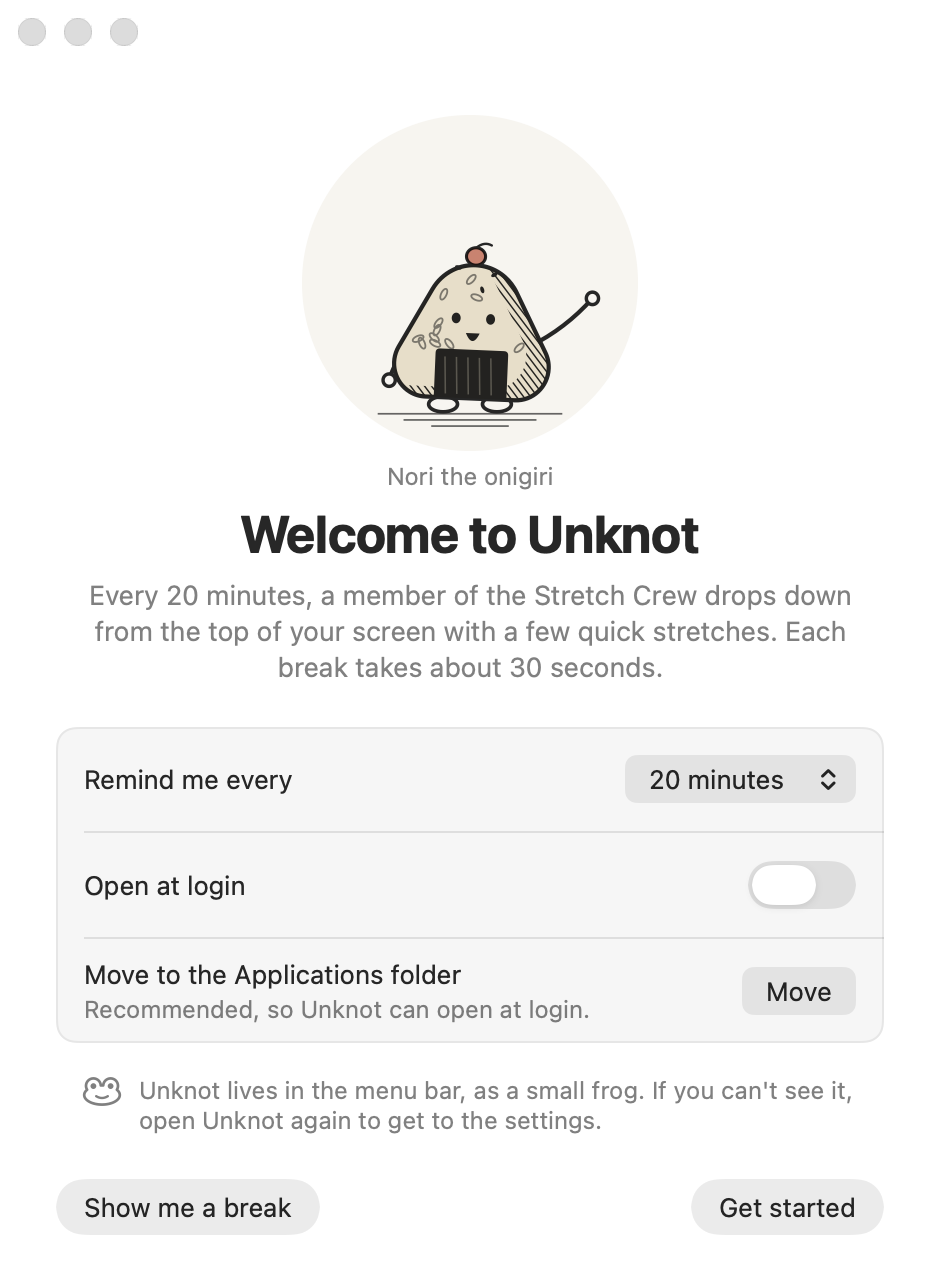
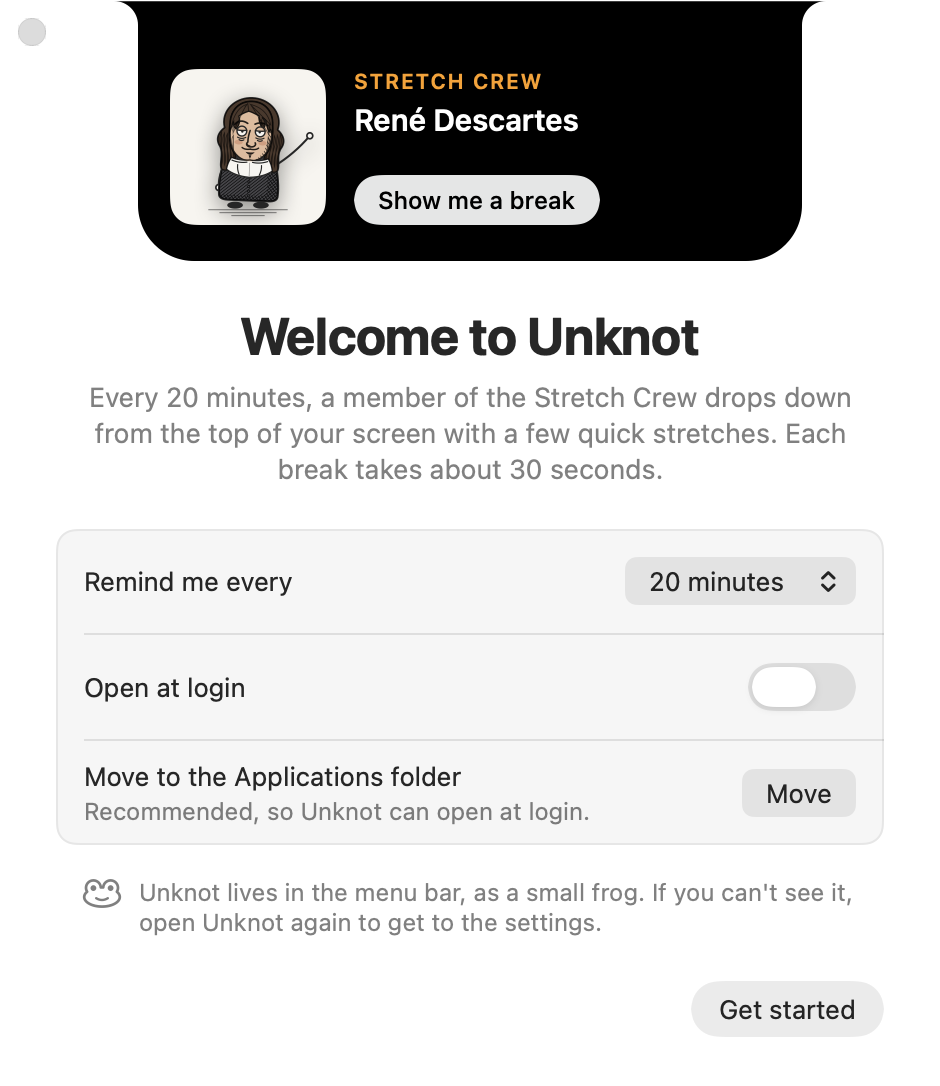
Unknot: a miniature island in the welcome window, Kaknästornet's panel (1.24.1)
The welcome window opens with a small black island hanging from its top
edge, like a break from the notch: a crew member waving on its tile and the
Show me a break button. The window lets its contents run under the title
bar and keeps only the close button; the README screenshot uses the same
window. Kaknästornet gets the white diamond-pressed aluminium panel from the
photographs, off the middle so it doesn't read as a mouth.

diff --git a/Unknot/Sources/WelcomeView.swift b/Unknot/Sources/WelcomeView.swift
@@ -14,21 +14,12 @@ struct WelcomeView: View {
 
     var body: some View {
         VStack(spacing: 0) {
-            BuddyView(move: .wave, buddy: buddy, epoch: Date())
-                .frame(width: 150, height: 150)
-                .background(Circle().fill(Pen.paper).frame(width: 168, height: 168))
-                .paperTone(scheme)
-                .padding(.top, 34)
-
-            Text(buddy.introduction)
-                .font(.callout)
-                .foregroundStyle(.secondary)
-                .padding(.top, 14)
+            island
 
             Text(L("Welcome to Unknot"))
                 .font(.system(size: 26, weight: .bold))
                 .tracking(-0.4)
-                .padding(.top, 6)
+                .padding(.top, 22)
 
             Text(L("Every %ld minutes, a member of the Stretch Crew drops down from the top of your screen with a few quick stretches. Each break takes about %ld seconds.", prefs.intervalMinutes, prefs.breakSeconds))
                 .font(.system(size: 13.5))
@@ -101,7 +92,6 @@ struct WelcomeView: View {
                 .padding(.top, 16)
 
             HStack {
-                Button(L("Show me a break"), action: onTryBreak)
                 Spacer()
                 Button(L("Get started"), action: onDone)
                     .keyboardShortcut(.defaultAction)
@@ -117,6 +107,41 @@ struct WelcomeView: View {
         .onReceive(NotificationCenter.default.publisher(for: NSApplication.didBecomeActiveNotification)) { _ in
             login.refresh()
         }
+    }
+
+    /// A break in miniature, hanging from the top of the window the way the real one hangs from the notch: a
+    /// member of the crew waving on its paper tile, and a button that shows a real break.
+    private var island: some View {
+        HStack(alignment: .top, spacing: 14) {
+            RoundedRectangle(cornerRadius: 12, style: .continuous)
+                .fill(Pen.paper)
+                .overlay(BuddyView(move: .wave, buddy: buddy, epoch: Date()).padding(3))
+                .colorMultiply(Color(hex: 0xF1ECE3))
+                .frame(width: 78, height: 78)
+                .shadow(color: .black.opacity(0.4), radius: 6, y: 3)
+            VStack(alignment: .leading, spacing: 3) {
+                Text(L("Stretch Crew").uppercased(with: Localizer.locale))
+                    .font(.system(size: 10.5, weight: .semibold))
+                    .tracking(0.8)
+                    .foregroundStyle(Island.accent)
+                Text(buddy.introduction)
+                    .font(.system(size: 15, weight: .semibold))
+                    .foregroundStyle(.white)
+                    .lineLimit(1)
+                    .minimumScaleFactor(0.8)
+                Spacer(minLength: 0)
+                Button(L("Show me a break"), action: onTryBreak)
+                    .buttonStyle(IslandCapsuleStyle(prominent: true))
+            }
+            .frame(maxWidth: .infinity, alignment: .leading)
+            .frame(height: 78)
+        }
+        .padding(.horizontal, 12 + 16)
+        .padding(.top, 34)
+        .padding(.bottom, 18)
+        .frame(width: 356)
+        .background(IslandShape(ear: 12, bottom: 28).fill(Color.black))
+        .environment(\.colorScheme, .dark)
     }
 
     private func row<Content: View>(@ViewBuilder _ content: () -> Content) -> some View {

diff --git a/Unknot/Sources/WindowManager.swift b/Unknot/Sources/WindowManager.swift
@@ -28,22 +28,33 @@ final class WindowManager: NSObject, NSWindowDelegate {
 
     func showWelcome() {
         if welcomeWindow == nil {
-            let view = WelcomeView(onTryBreak: { [weak self] in self?.onTestBreak?() },
-                                   onDone: { [weak self] in self?.welcomeWindow?.close() })
-            let host = NSHostingController(rootView: view.environment(\.locale, Localizer.locale))
-            let window = NSWindow(contentViewController: host)
-            window.styleMask = [.titled, .closable, .fullSizeContentView]
-            window.titlebarAppearsTransparent = true
-            window.titleVisibility = .hidden
-            window.isMovableByWindowBackground = true
-            window.isReleasedWhenClosed = false
-            window.title = L("Welcome to Unknot")
+            let window = Self.makeWelcomeWindow(onTryBreak: { [weak self] in self?.onTestBreak?() },
+                                                onDone: { [weak self] in self?.welcomeWindow?.close() })
             window.delegate = self
-            window.setContentSize(host.view.fittingSize)
             window.center()
             welcomeWindow = window
         }
         present(welcomeWindow!)
+    }
+
+    /// The first-launch window, also photographed for the README.
+    static func makeWelcomeWindow(onTryBreak: @escaping () -> Void, onDone: @escaping () -> Void) -> NSWindow {
+        let host = NSHostingController(rootView: WelcomeView(onTryBreak: onTryBreak, onDone: onDone)
+            .environment(\.locale, Localizer.locale))
+        // The island at the top hangs from the window's very edge, under the transparent title bar
+        host.safeAreaRegions = []
+        let window = NSWindow(contentViewController: host)
+        window.styleMask = [.titled, .closable, .fullSizeContentView]
+        window.titlebarAppearsTransparent = true
+        window.titleVisibility = .hidden
+        window.isMovableByWindowBackground = true
+        window.isReleasedWhenClosed = false
+        window.title = L("Welcome to Unknot")
+        // Only the close button: the others can't be used here, and the island needs the room
+        window.standardWindowButton(.miniaturizeButton)?.isHidden = true
+        window.standardWindowButton(.zoomButton)?.isHidden = true
+        window.setContentSize(host.view.fittingSize)
+        return window
     }
 
     func makeSettingsWindow(animatesResize: Bool = true) -> (NSWindow, SettingsTabViewController) {

diff --git a/Unknot/Sources/Crew.swift b/Unknot/Sources/Crew.swift
@@ -1072,10 +1072,8 @@ struct KaknasArt: CrewArt {
             }
             for (y, w) in [(44.0, 7.0), (38.0, 5.5)] { p.move(to: pt(100 - w, y)); p.addLine(to: pt(100 + w, y)) }
         }
-        // The shuttering marks in the concrete: a groove, a column of small windows and the white panel
+        // Two small windows under the face
         marks = makePath { p in
-            p.move(to: pt(100, 152)); p.addLine(to: pt(100, 162))
-            for y in stride(from: 155.0, through: 162.0, by: 7.0) { p.addRect(CGRect(x: 103, y: y - 1.5, width: 2.6, height: 3)) }
             p.addRect(CGRect(x: 94.5, y: 113.5, width: 3, height: 3)); p.addRect(CGRect(x: 102.5, y: 113.5, width: 3, height: 3))
         }
         wash = shaft
@@ -1115,7 +1113,28 @@ struct KaknasArt: CrewArt {
         pen.mouth(pt(100 + f.fx * 0.6, 107), f, width: 3.8, depth: 2.6)
     }
 
+    /// The white aluminium panel on the shaft below the platforms, pressed into diamonds, as on the
+    /// photographs. It sits off the middle, so under the face it never reads as a second mouth.
+    private static let panel = CGRect(x: 102, y: 151, width: 10, height: 8)
+    /// Each diamond in two halves, the left one catching the light, the right one in shade.
+    private static let diamonds: [(lit: Path, shade: Path)] = (0..<2).map { k in
+        let w = panel.width / 2, cx = panel.minX + w / 2 + CGFloat(k) * w, cy = panel.midY, hy = panel.height / 2 - 0.4
+        func half(_ side: CGFloat) -> Path {
+            makePath { p in
+                p.move(to: pt(cx, cy - hy)); p.addLine(to: pt(cx + side * (w / 2 - 0.4), cy)); p.addLine(to: pt(cx, cy + hy)); p.closeSubpath()
+            }
+        }
+        return (half(-1), half(1))
+    }
+
     func overlay(_ pen: Pen, _ f: CrewFrame) {
+        // Drawn after the concrete's colour, so the panel stays white
+        pen.paper(Path(Self.panel))
+        for diamond in Self.diamonds {
+            pen.solid(diamond.shade, color: Color(hex: 0xDEDBD5))
+            pen.c.stroke(diamond.lit.union(diamond.shade), with: .color(Pen.ink.opacity(0.45)), lineWidth: 0.55)
+        }
+        pen.c.stroke(Path(Self.panel), with: .color(Pen.ink), lineWidth: 1)
         // White drum antennas on the platforms, turned out to the sides: a short cylinder with a round face
         for (c, side) in drums {
             let back = c.x - side * 2.4, face = c.x + side * 2.4

diff --git a/Unknot/docs/index.html b/Unknot/docs/index.html
@@ -171,7 +171,7 @@
         <li>Open <strong>System Settings → Privacy &amp; Security</strong>, scroll down and click <strong>Open Anyway</strong>.</li>
         <li>Choose how often you want a break, and click <strong>Show me a break</strong> to see one right away.</li>
       </ol>
-      <img class="welcome" src="welcome.png" width="940" height="1284" alt="The welcome window: the break interval, open at login and a button to try a break">
+      <img class="welcome" src="welcome.png" width="940" height="1086" alt="The welcome window: a small black island with a member of the Stretch Crew and a button to try a break, then the break interval and open at login">
     </section>
 
     <section>

diff --git a/Unknot/Sources/Snapshot.swift b/Unknot/Sources/Snapshot.swift
@@ -340,10 +340,7 @@ enum Snapshot {
             window.orderOut(nil)
         }
 
-        let welcome = NSWindow(contentViewController: NSHostingController(rootView: WelcomeView(onTryBreak: {}, onDone: {})))
-        welcome.styleMask = [.titled, .closable, .fullSizeContentView]
-        welcome.titlebarAppearsTransparent = true
-        welcome.titleVisibility = .hidden
+        let welcome = WindowManager.makeWelcomeWindow(onTryBreak: {}, onDone: {})
         welcome.appearance = NSAppearance(named: .aqua)
         welcome.setFrameOrigin(NSPoint(x: -10_000, y: -10_000))
         welcome.orderFrontRegardless()

diff --git a/Unknot/CHANGELOG.md b/Unknot/CHANGELOG.md
@@ -1,5 +1,15 @@
 # Changelog
 
+## 1.24.1 – 2026-10-25
+
+- **The welcome window shows a break in miniature.** A small black island hangs from the top of the window,
+  the way a real break hangs from the notch, with a member of the crew waving on its tile and the **Show me a
+  break** button that plays a real one. Only the close button is left in the corner.
+- **Kaknästornet** gets the white aluminium panel the real tower has on its shaft, pressed into diamonds. It sits
+  off the middle, so under the face it doesn't read as a second mouth.
+- The install script reported the version that was there before when it replaced Unknot; it now reads the new
+  one from the app itself.
+
 ## 1.24.0 – 2026-10-25
 
 - **Unknot now looks like Dynamic Island**, its neighbour in mac-appar. A break grows out of the notch as a

diff --git a/Unknot/README.md b/Unknot/README.md
@@ -92,7 +92,7 @@ break** plays one straight away so you know what to expect. From then on the app
 small frog.
 
 <p align="center">
-  <img src="docs/welcome.png" width="360" alt="The welcome window: an introduction from a member of the Stretch Crew, the break interval, open at login and a button to try a break">
+  <img src="docs/welcome.png" width="360" alt="The welcome window: a small black island at the top with a member of the Stretch Crew and a button to try a break, then the break interval and open at login">
 </p>
 
 <p align="center">
